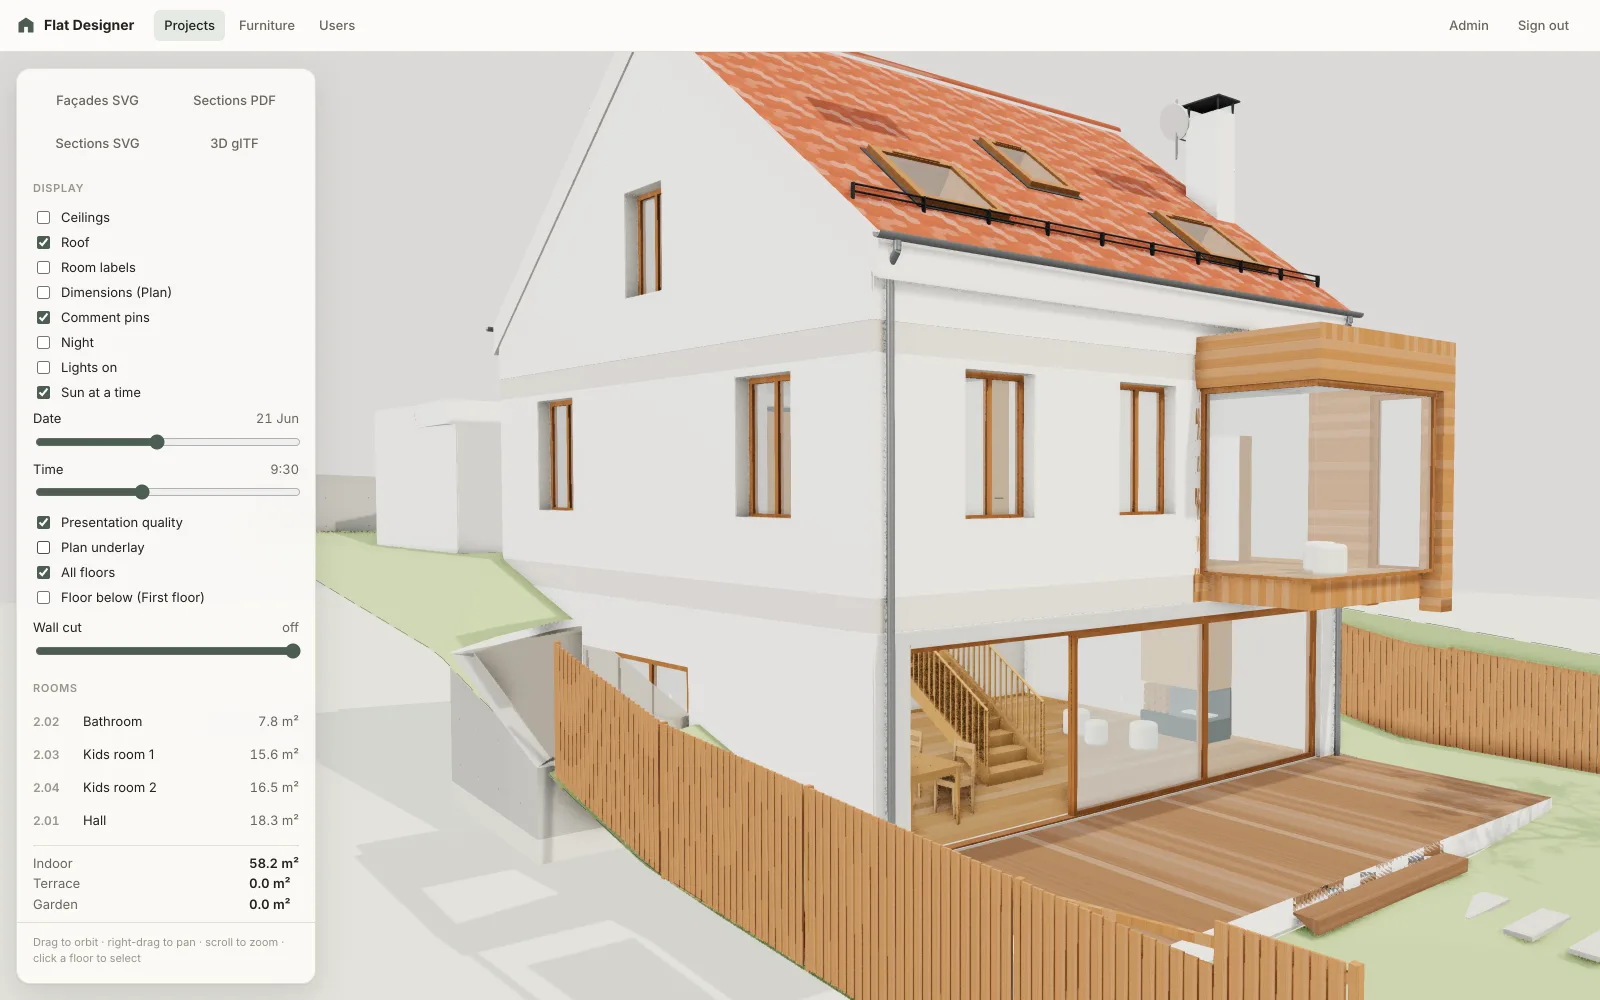
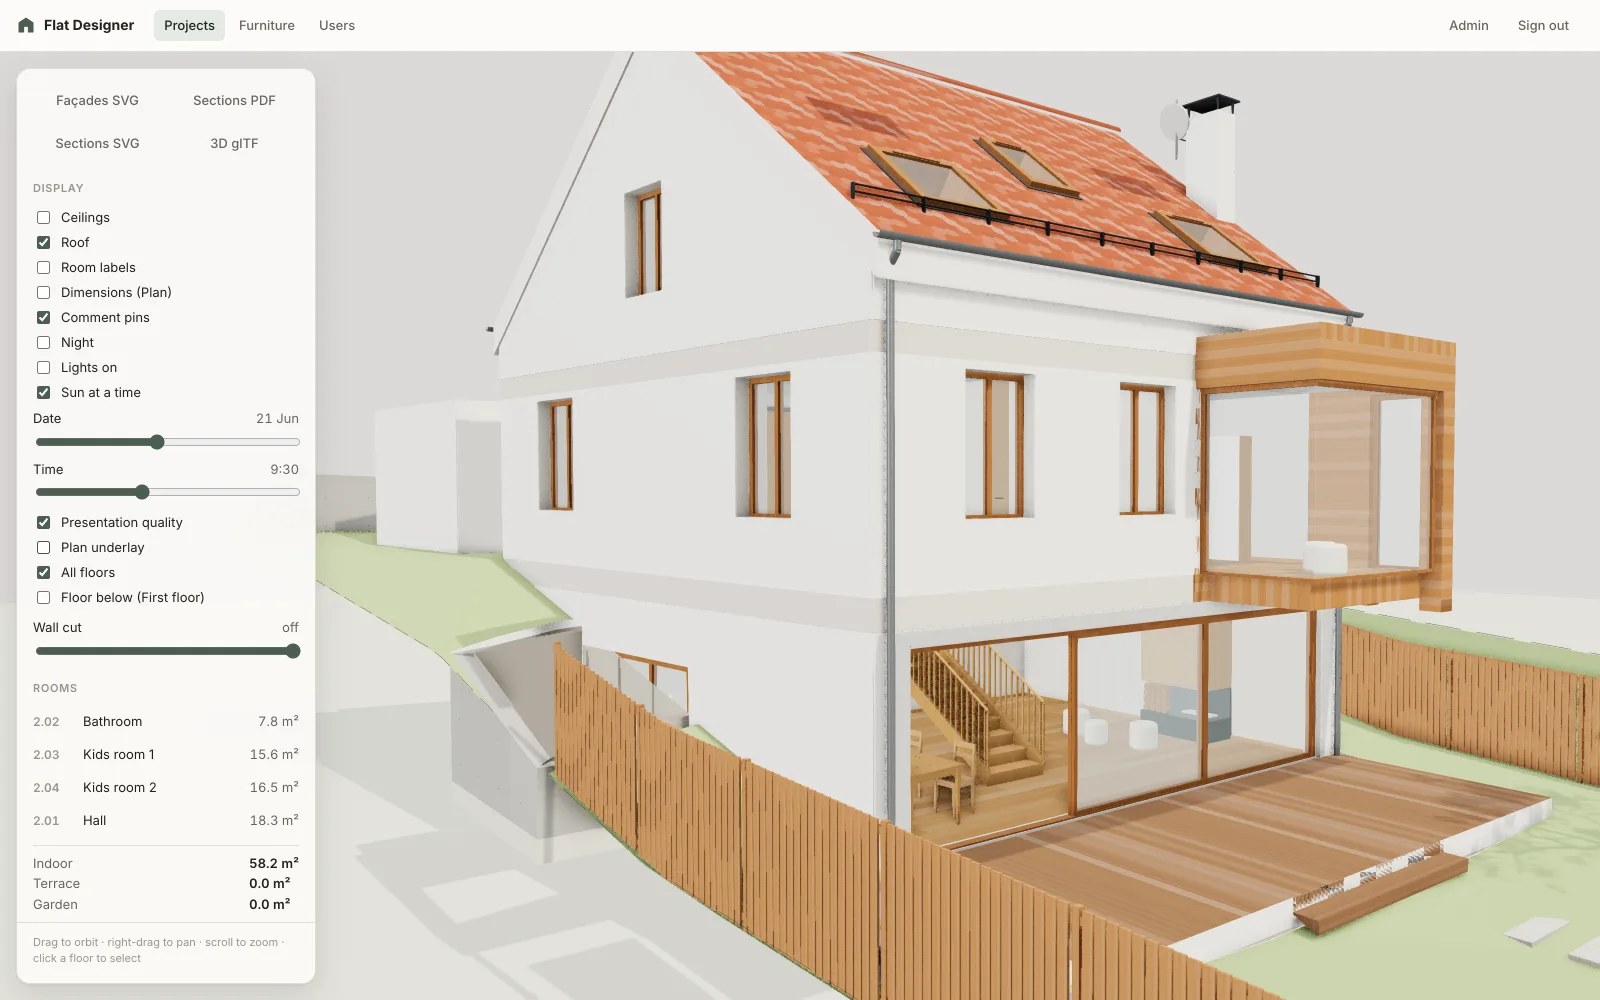
Retake the demo house screenshots; fences do not widen the building drawings
- The house tour views, the first floor's plan and section B–B, retaken with the garden walls, curved steps, fences
  and the garage roof of FD-98 to FD-101.
- A fence railing stands out on the site in the façades and sections, as garden walls and steps do: drawn within the
  building's extent, not widening it (section B–B was at 1:200 because of the south fence).

diff --git a/frontend/src/app/viewer/engine/sections.spec.ts b/frontend/src/app/viewer/engine/sections.spec.ts
@@ -113,6 +113,31 @@ describe('building drawings', () => {
         expect(view.marks.map((m) => m.level)).toEqual([0]);
     });
 
+    it('draws a fence out on the site without widening the drawing', () => {
+        const fenced: Scene = {
+            ...house(),
+            railings: [
+                {
+                    id: 1,
+                    name: 'Fence',
+                    points: [
+                        [-20000, -3000],
+                        [26000, -3000],
+                    ],
+                    height: 1600,
+                    baseZ: 0,
+                    style: 'Boards',
+                    spacing: null,
+                    postSpacing: 2500,
+                    handrail: 'None',
+                    materialId: null,
+                    infillMaterialId: null,
+                },
+            ],
+        };
+        expect(buildingView([fenced], facadePlane('South')).bounds).toEqual(buildingView([house()], facadePlane('South')).bounds);
+    });
+
     it('stacks the floors at their elevations, the slab between them', () => {
         const view = buildingView([house(2850, 1), house()], facadePlane('South'));
         expect(view.bounds.maxV).toBeCloseTo(2850 + 2600);

diff --git a/frontend/src/app/viewer/engine/sections.ts b/frontend/src/app/viewer/engine/sections.ts
@@ -282,6 +282,7 @@ class ViewCollector {
         for (const railing of scene.railings ?? []) {
             this.railing(railing, plots, e);
         }
+        this.site = false;
     }
 
     /**
@@ -290,6 +291,8 @@ class ViewCollector {
      */
     private railing(railing: Railing, plots: readonly Plot[], e: number): void {
         const follow = isFenceStyle(railing.style) ? (railing.follow ?? 'Level') : 'Level';
+        // A fence stands out on the site: drawn within the building's extent, not widening it (as garden walls).
+        this.site = isFenceStyle(railing.style);
         const ground = (q: Vec2): number => e + (follow === 'Level' ? railing.baseZ : groundAt(plots, q.x, q.y));
         const style = railing.style === 'Glass' || railing.style === 'Panel' ? ThinGlass : ThinLine;
         railing.points.slice(1).forEach((point, i) => {
